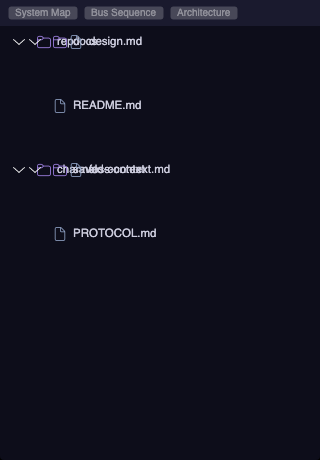
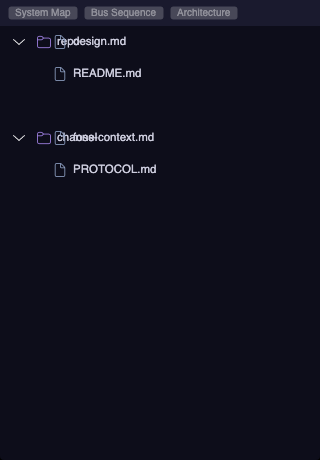
fix(docs-screenshot): feed flat data to the doc-library README figure
The Capture_doc_library headless figure seeded nested folders (repo/docs/,
chan/saved-context/). Under headless render a non-leaf TreeViewItem folder
collapses to ~0 height and its first child paints over the folder label, so
the whole nested tree came out garbled (issue
doclibrary-treeview-non-leaf-folder-row-headers — a Fluent-theme template
arrange bug, cockpit-'s View/theme domain, not fixable test-side).

Flatten the data (files directly under each source root, no sub-folders),
matching the already-shipped Manual_document_library workaround. The figure
now renders cleanly except the 2 unavoidable source-root headers — the
documented residual that clears once cockpit- fixes the template, with zero
further code change. Not a test hack: the tree data is genuinely flat.

Regenerated docs/screenshots/doc-library.png. UITest green.

diff --git a/tests/Styloagent.UITests/ReadmeScreenshotTests.cs b/tests/Styloagent.UITests/ReadmeScreenshotTests.cs
@@ -108,14 +108,20 @@ public class ReadmeScreenshotTests
         {
             var repo = Path.Combine(Path.GetTempPath(), "shot-repo-" + Guid.NewGuid().ToString("N"));
             var chan = Path.Combine(Path.GetTempPath(), "shot-chan-" + Guid.NewGuid().ToString("N"));
-            Directory.CreateDirectory(Path.Combine(repo, "docs"));
-            Directory.CreateDirectory(Path.Combine(chan, "saved-context"));
+            // Flat tree: files directly under each source root, no sub-folders. The DocLibrary TreeView
+            // auto-expands every folder, and a non-leaf folder node collapses to ~zero height under headless
+            // render — its first child then paints on top of the folder label (garbled, overlapping text),
+            // a headless-only artifact no amount of settling clears (issue
+            // doclibrary-treeview-non-leaf-folder-row-headers, cockpit-'s template/theme fix). A flat file
+            // list under the two source roots renders cleanly and is representative of the panel.
+            Directory.CreateDirectory(repo);
+            Directory.CreateDirectory(chan);
             try
             {
                 File.WriteAllText(Path.Combine(repo, "README.md"), "# readme");
-                File.WriteAllText(Path.Combine(repo, "docs", "design.md"), "# design");
+                File.WriteAllText(Path.Combine(repo, "design.md"), "# design");
                 File.WriteAllText(Path.Combine(chan, "PROTOCOL.md"), "# protocol");
-                File.WriteAllText(Path.Combine(chan, "saved-context", "foss-context.md"), "# ctx");
+                File.WriteAllText(Path.Combine(chan, "foss-context.md"), "# ctx");
 
                 var vm = new DocLibraryViewModel(repo, chan, _ => { });
                 var view = new DocLibraryView { DataContext = vm };